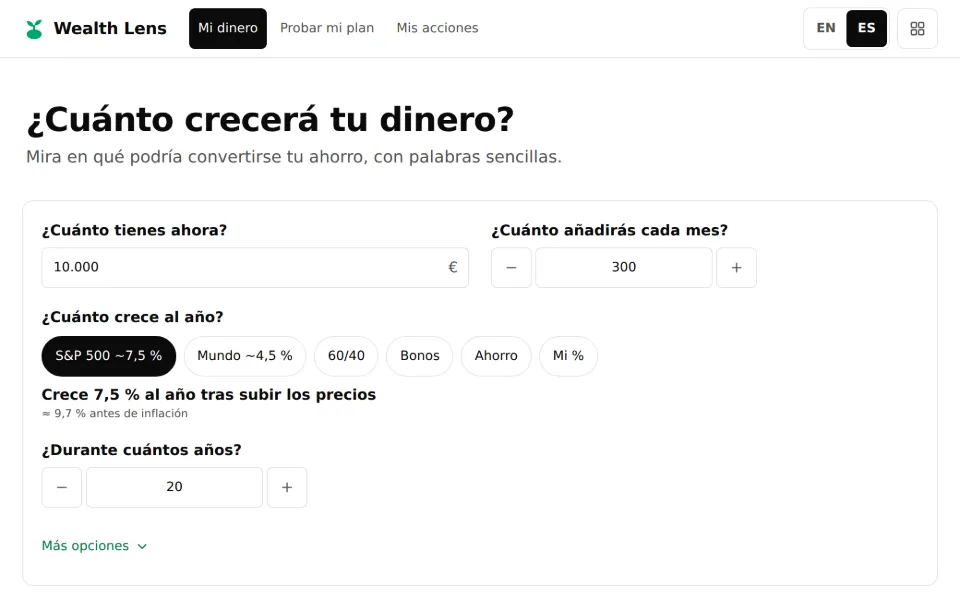
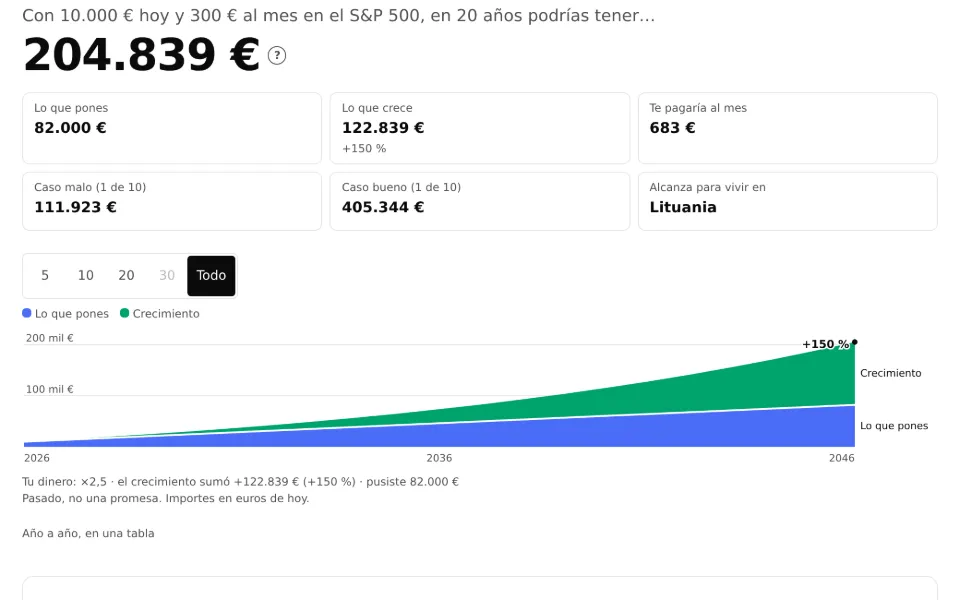
Hub: retake Wealth Lens's screenshots with its result
The capture types the two amounts and now presses "See my result", as a
person would: the result no longer appears on its own.

Claude-Session: https://claude.ai/code/session_01BcV4Bj22BrAC8vej9vmEnb

diff --git a/hub/scripts/shots.ts b/hub/scripts/shots.ts
@@ -37,7 +37,9 @@ const SCENES: Readonly<Record<string, (page: Page) => Promise<void>>> = {
     await inputs.nth(0).fill("10000");
     await inputs.nth(1).fill("300");
     await page.evaluate(() => (document.activeElement as HTMLElement | null)?.blur());
-    await page.waitForTimeout(1200);
+    // "See my result" (the one button that can be on or off): the page glides to the result.
+    await page.locator('main button[aria-disabled="false"]').click();
+    await page.waitForTimeout(1500);
   },
 };
 

diff --git a/hub/README.md b/hub/README.md
@@ -87,7 +87,8 @@ del peso y las comprobaciones de privacidad y de lenguaje sencillo.
   comando lo instala primero si falta).
 - **Capturas:** `npm run shots` fotografía cada herramienta visible desde
   su build real (`projects/<id>/out` o `dist`, servido en local), en
-  inglés y en español, con datos escritos para que se vea un resultado;
+  inglés y en español, con datos escritos (y, en Wealth Lens, "See my
+  result" pulsado) para que se vea un resultado;
   las guarda en WebP a varios anchos en `static/shots/` y las anota en
   `content/shots.json`. Se cargan solo al acercarse a la pantalla
   (`loading="lazy"`), con su tamaño fijado para que nada salte. Hay que
